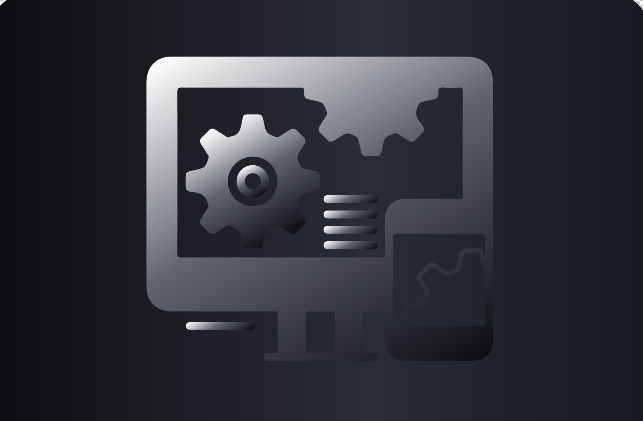
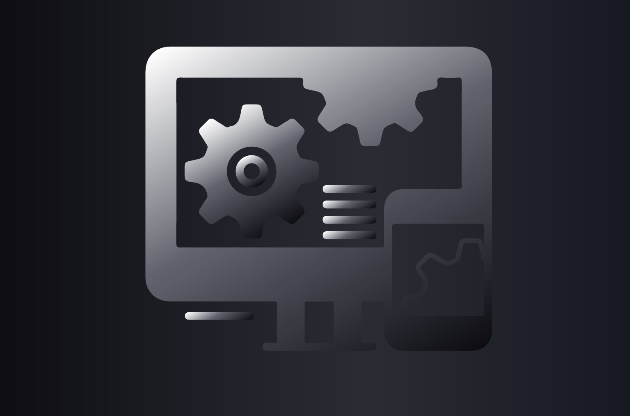
cryptogents website

diff --git a/src/pages/index.tsx b/src/pages/index.tsx
@@ -233,6 +233,20 @@ const Index = () => {
                 className="w-full aspect-video"
               ></iframe>
             </motion.div>
+            {/* <motion.div
+              className="w-full aspect-video rounded-3xl overflow-hidden"
+              initial={{ opacity: 0, y: 40 }}
+              animate={{ opacity: 1, y: 0 }}
+              transition={{ duration: 0.8, delay: 1.4 }}
+            >
+              <iframe
+                loading="lazy"
+                title="Youtube Video"
+                allow="presentation; fullscreen; accelerometer; autoplay; encrypted-media; gyroscope; picture-in-picture"
+                src="https://www.youtube.com/embed/HiNSaaEM1us?iv_load_policy=3&rel=0&modestbranding=1&playsinline=1&autoplay=0&autohide=1"
+                className="w-full aspect-video"
+              ></iframe>
+            </motion.div> */}
 
             {/* Video Extra */}
             {/* <motion.div
